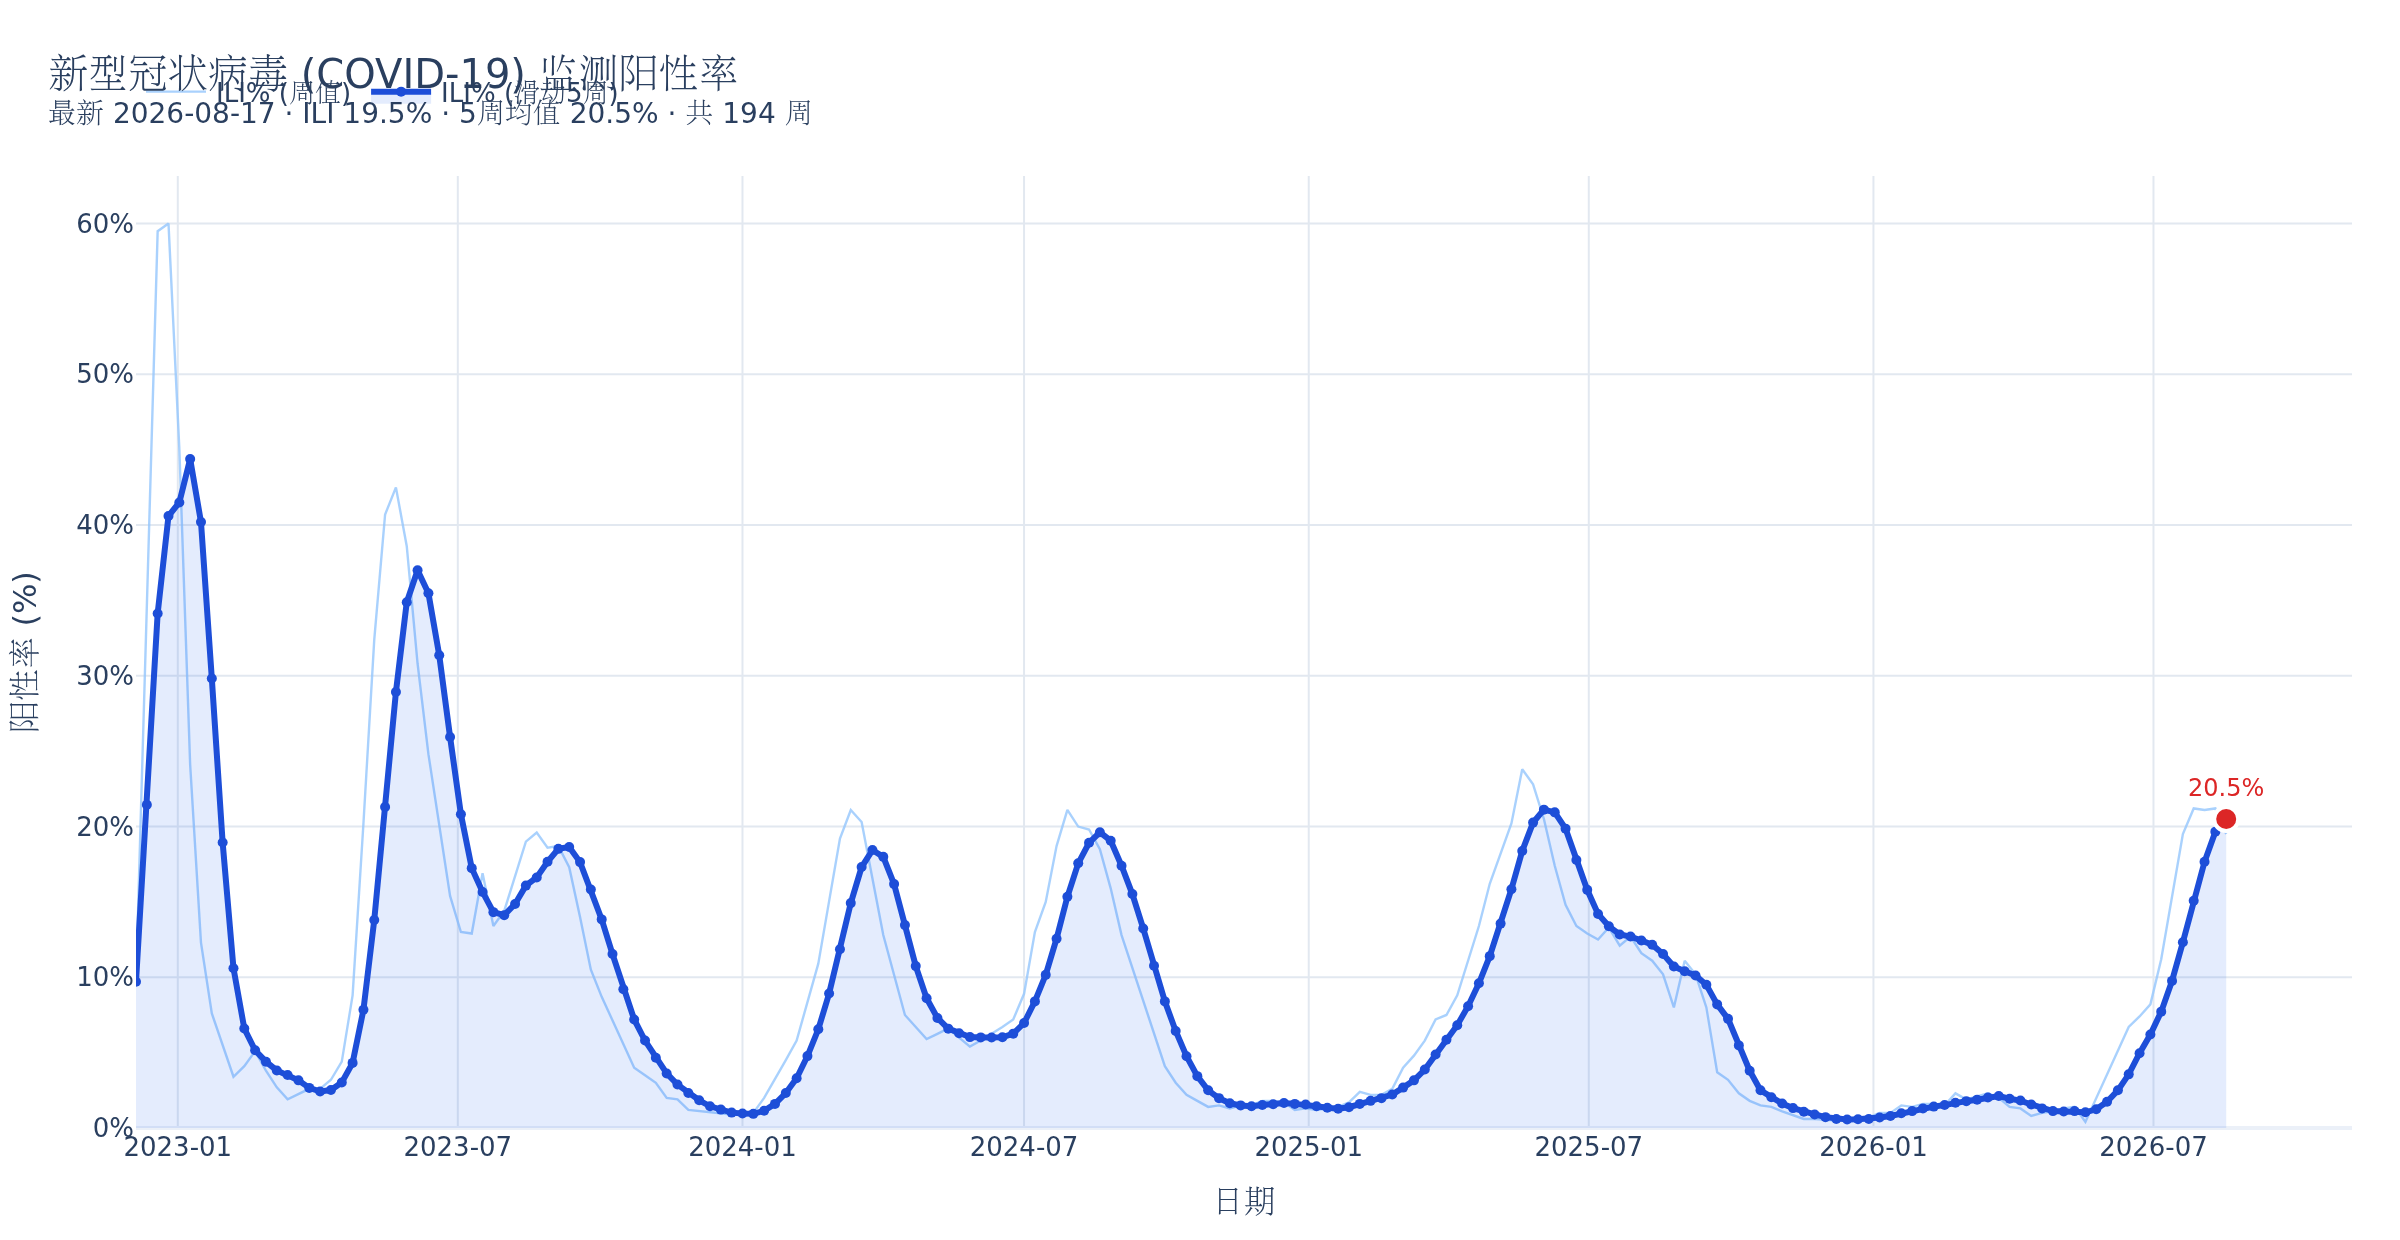
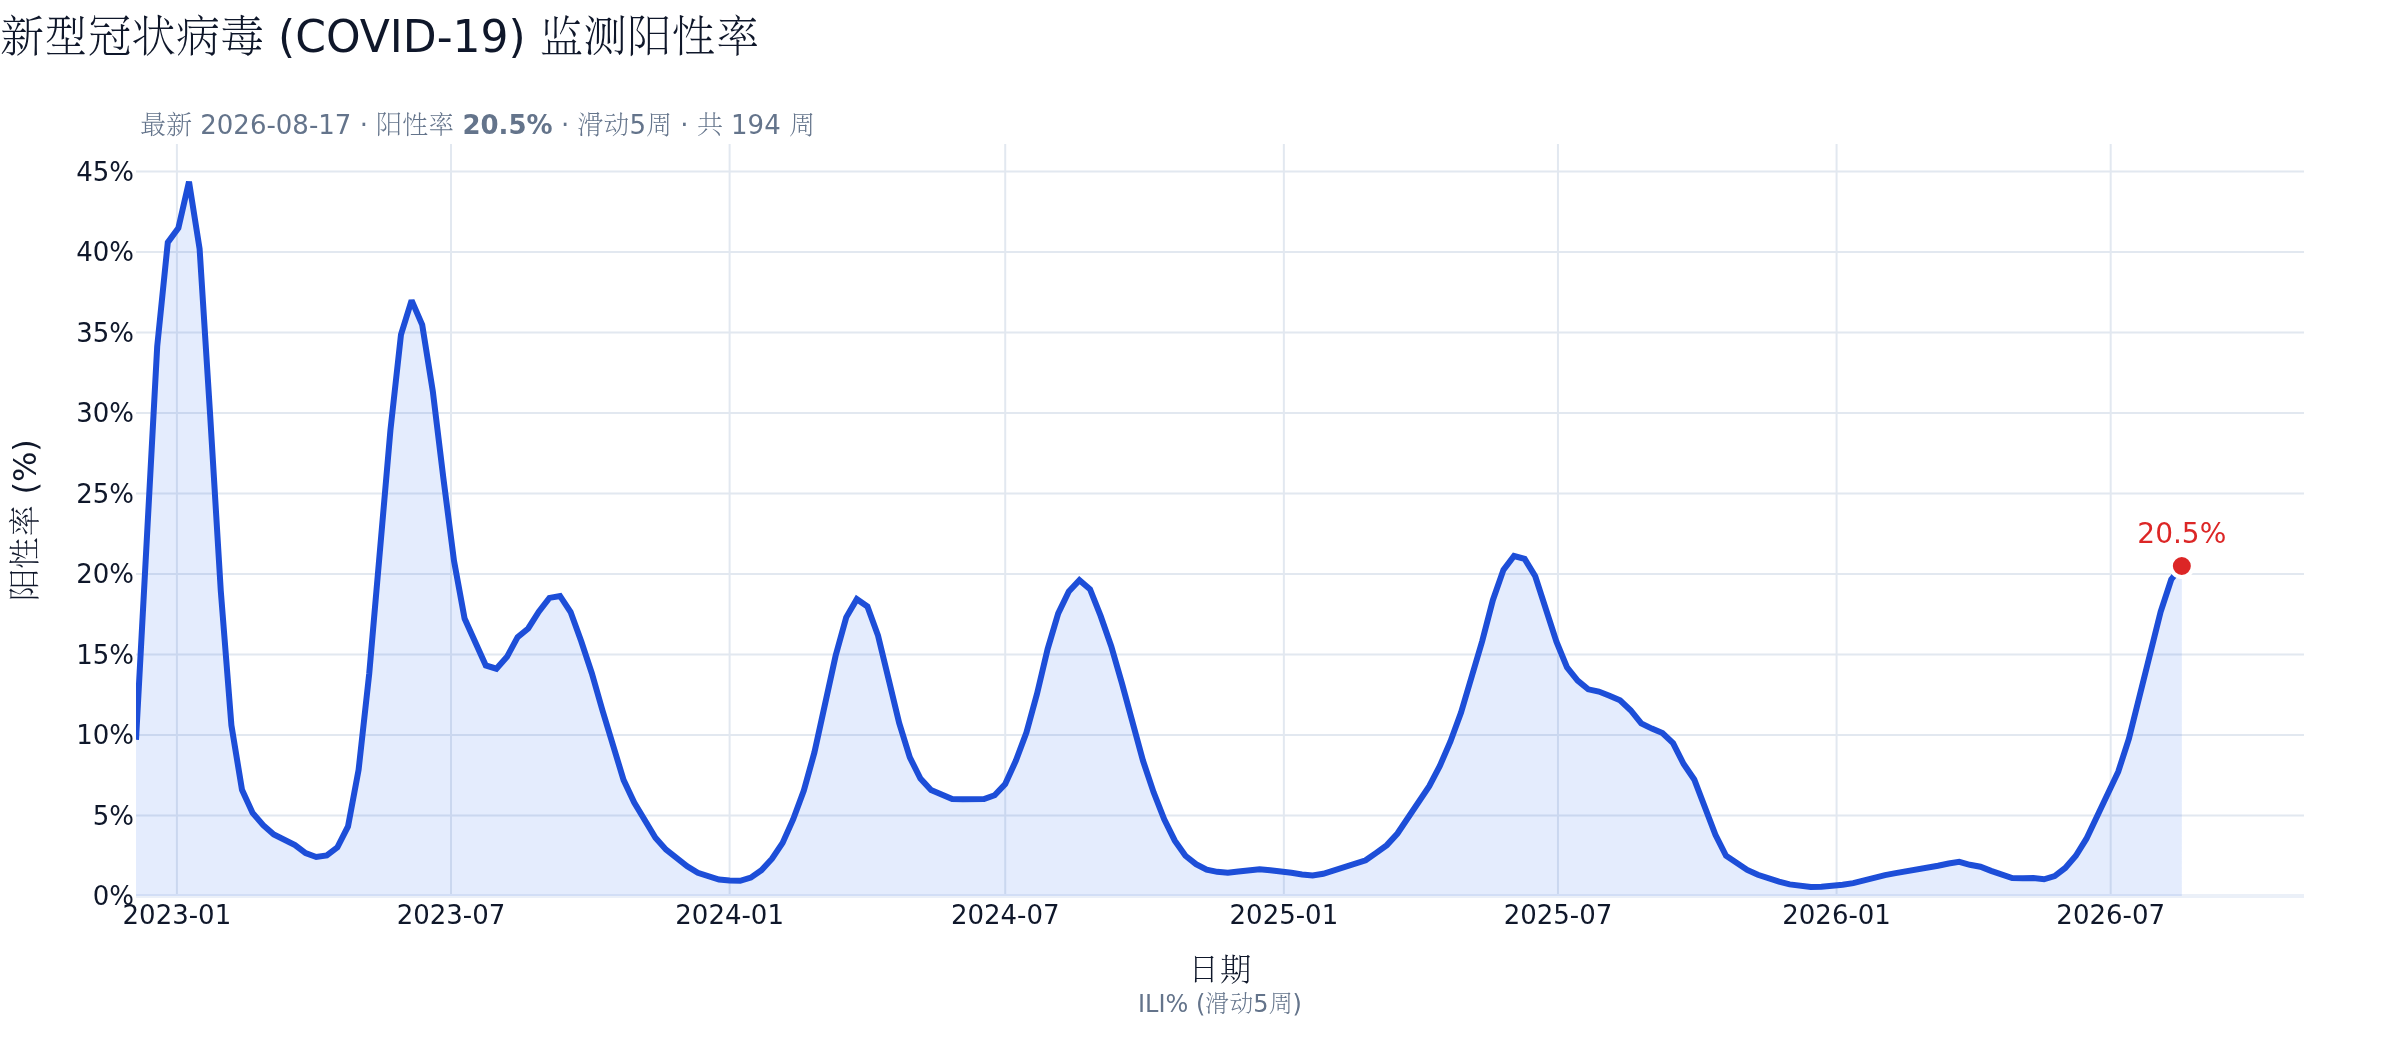
docs: README 改用静态 ILI 趋势图
仅展示 5 周滑动平均单曲线与最新阳性率，修复标题/图例重叠，
移除 iframe 交互嵌入。

diff --git a/README.md b/README.md
@@ -6,25 +6,9 @@ Automated weekly extraction of respiratory disease surveillance data from China 
 
 <!-- COVID_CHART_START -->
 <p align="center">
-  <em>SARS-CoV-2 weekly ILI positivity rate — <strong>5-week moving average</strong>. Hover · zoom · drag to select range.</em>
-</p>
-<div align="center">
-  <iframe
-    src="https://render.githubusercontent.com/view/html?url=https://raw.githubusercontent.com/dailypartita/cn_cdc_crawl/main/docs/covid_ili_chart.html"
-    width="920"
-    height="580"
-    style="border:0;max-width:100%;border-radius:12px;box-shadow:0 8px 28px rgba(15,23,42,.08);"
-    loading="lazy"
-    title="COVID-19 ILI positivity rate chart">
-  </iframe>
-</div>
-<p align="center">
-  <em>若上方无法显示，请查看
-  <a href="docs/covid_ili_chart.html">docs/covid_ili_chart.html</a>
-  或静态预览：</em>
-</p>
-<p align="center">
-  <img src="docs/chart_preview.png" width="900" alt="COVID ILI chart preview"/>
+  <img src="docs/chart_preview.png" width="900" alt="SARS-CoV-2 weekly ILI positivity rate (5-week moving average)"/>
+  <br/>
+  <em>SARS-CoV-2 weekly ILI positivity rate at sentinel hospitals — <strong>5-week moving average</strong> (CDC sentinel convention).</em>
 </p>
 <!-- COVID_CHART_END -->
 
@@ -37,7 +21,7 @@ flowchart LR
     C -->|MinerU OCR| D[Markdown<br/>Document]
     D -->|LLM extract| E[Structured<br/>CSV Records]
     E -->|dedup + merge| F[(Main<br/>Datasets)]
-    F -->|chart refresh| H[Interactive<br/>ILI Chart]
+    F -->|chart refresh| H[ILI Chart<br/>PNG]
     F -->|auto commit| G([GitHub<br/>Release])
     H --> G
 ```
